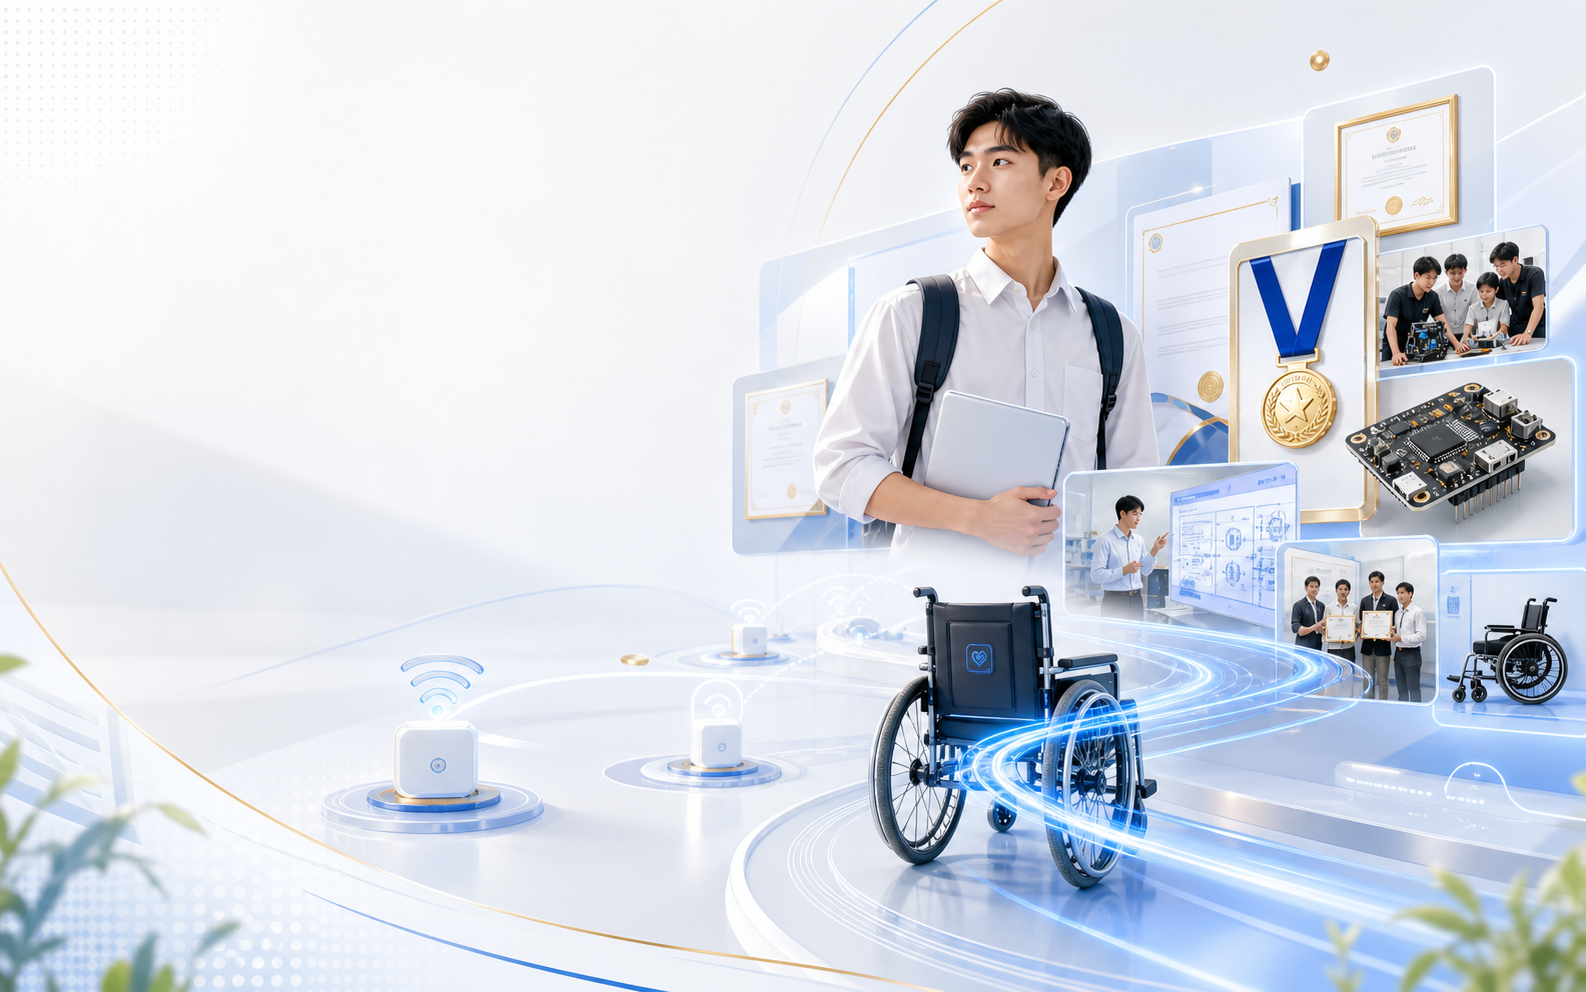
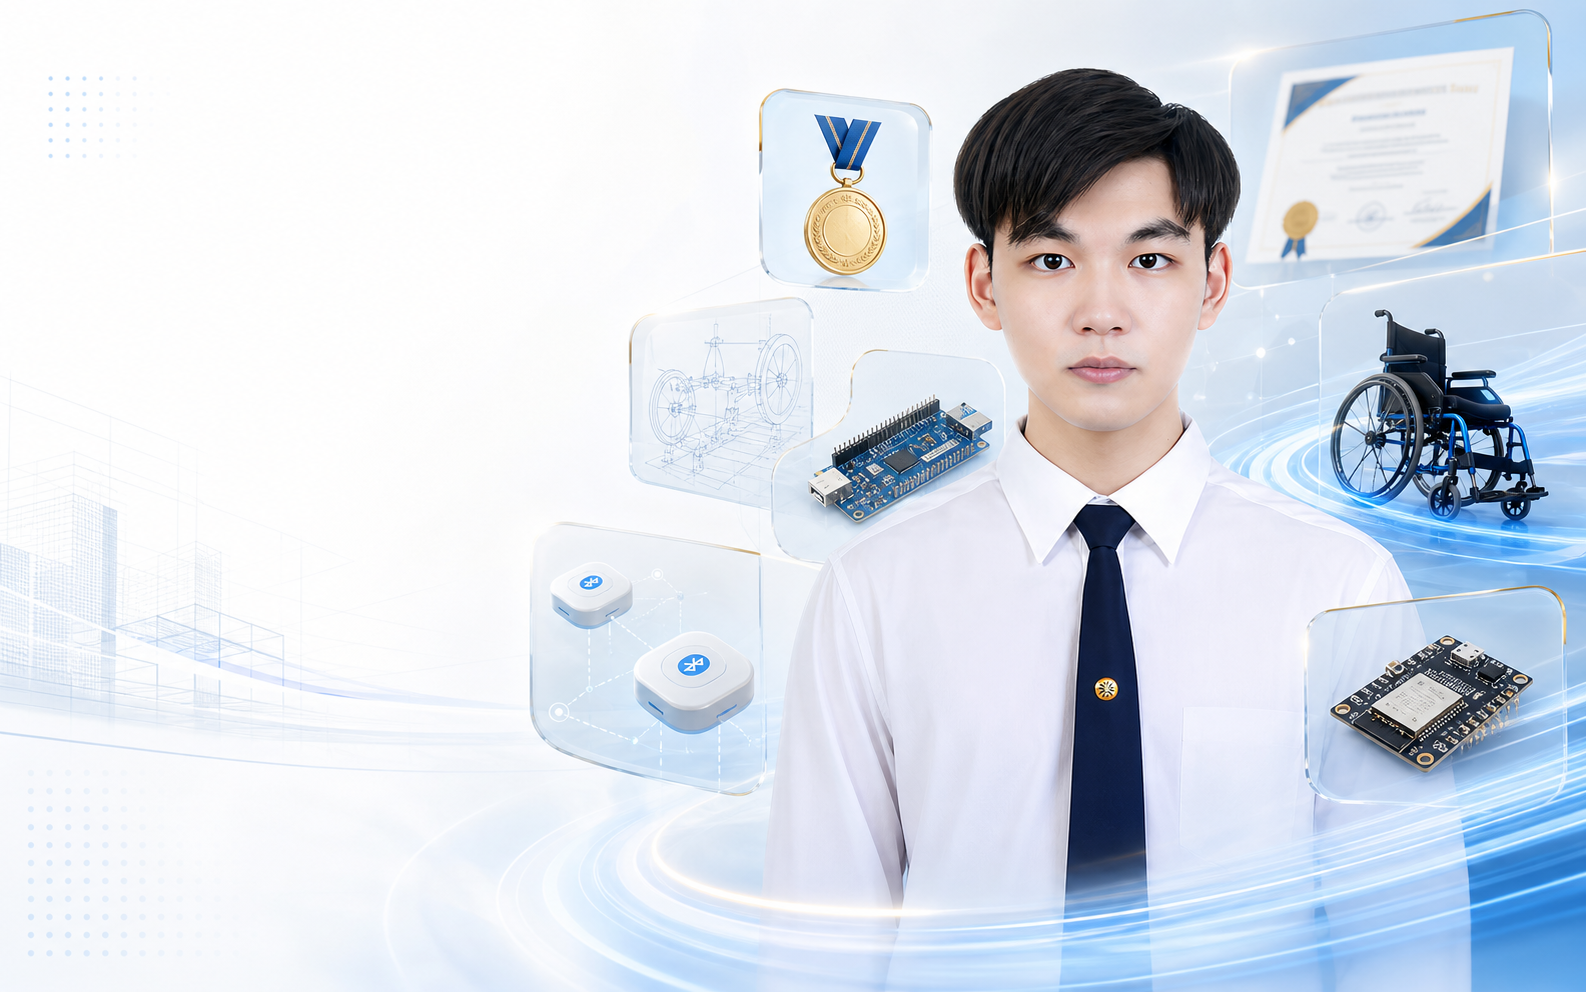
feat: use real portrait in hero artwork

diff --git a/src/App.tsx b/src/App.tsx
@@ -218,7 +218,7 @@ function App() {
           <div className="hero-art" data-parallax="-36" data-reveal>
             <img
               src="/art/light-profile-hero.png"
-              alt="Generated light portfolio artwork with WheelSense, certificates, awards, sensors, and engineering project imagery"
+              alt="Generated light portfolio artwork using Worapon Sangsasri's portrait with WheelSense, certificates, awards, sensors, and engineering project imagery"
             />
             <div className="hero-art-card">
               <span>Flagship project</span>
